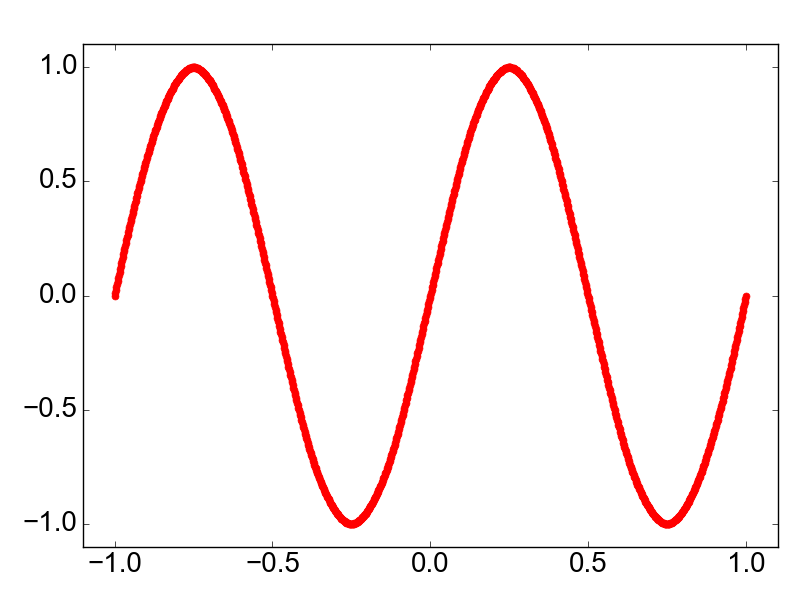
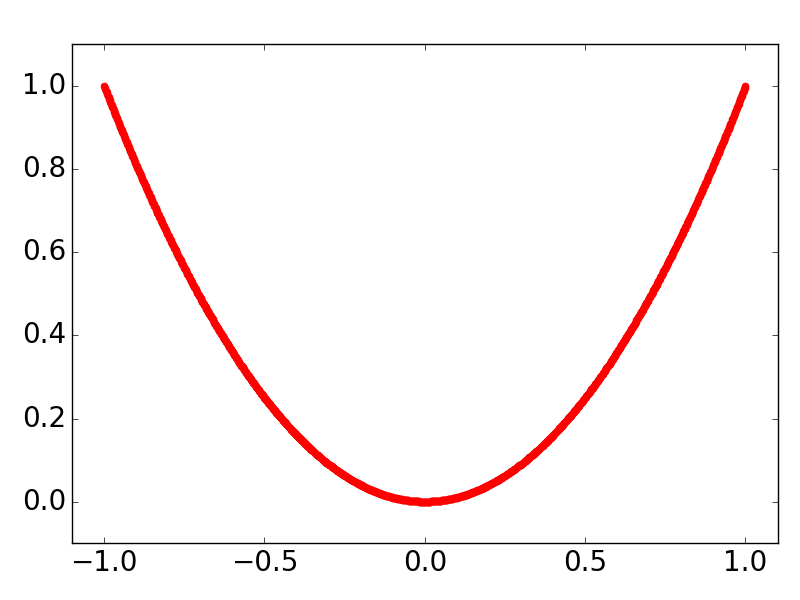
Alterações gerais no código, incluindo a definição da função de erro e a geração de gráficos para cada iteração do processo de subdivisão. As imagens de saída também foram atualizadas para refletir as mudanças feitas no código.

diff --git a/cubica+erro.py b/cubica+erro.py
@@ -26,7 +26,7 @@ else:
     })
 
 plt.rcParams['font.family'] = 'sans-serif'
-plt.rcParams['font.sans-serif'] = ['Arial']
+plt.rcParams['font.sans-serif'] = ['ARIAL']
 plt.rcParams['axes.titleweight'] = 'bold'
 plt.rcParams['font.size'] = 15
 plt.rcParams['axes.titlesize'] = 15
@@ -293,7 +293,7 @@ if __name__ == '__main__':
     b = 1.0
     n = 4
     k = 8
-    func = sin
+    func = quad
     #lambda x: np.sin(2 * np.pi * x)
 
     # Geração dos pontos e subdivisão
